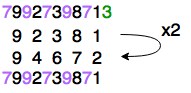
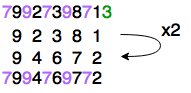
Presentación FPE: correcciones en la anatomía de las tarjetas.
O sea, me estuve peleando tanto con los colores y alinear los numeritos
que olvidé completamente que no debía copiar y pegar los mismos números,
hice como tres ejemplos a manita para ver si sí salía y me equivoqué,
lo siento :( Ya están los correctos.

Agregué una nota al pie de página para explicar qué es un BIN (identificador
del banco) que no es lo mismo que un IIN (estos no están limitados a una
institución bancaria (ej. las tarjetas Discovery o American Express, creo).

diff --git a/documentos_entregables/presentacion_fpe/contenidos/tarjetas/tarjetas.tex b/documentos_entregables/presentacion_fpe/contenidos/tarjetas/tarjetas.tex
@@ -49,7 +49,8 @@
 
 \begin{frame}{Anatomía de un número de tarjeta}
   {Sobre el IIN}
-  La base de datos BINDB proveé información cuando se ingresa un BIN válido.
+  La base de datos BINDB proveé información cuando se ingresa un BIN
+  \footnote{\textit{Bank Identifier Number}} válido.
   Permite solo 10 consultas gratuitas por computadora.
   \begin{figure}[H]
     \begin{center}
